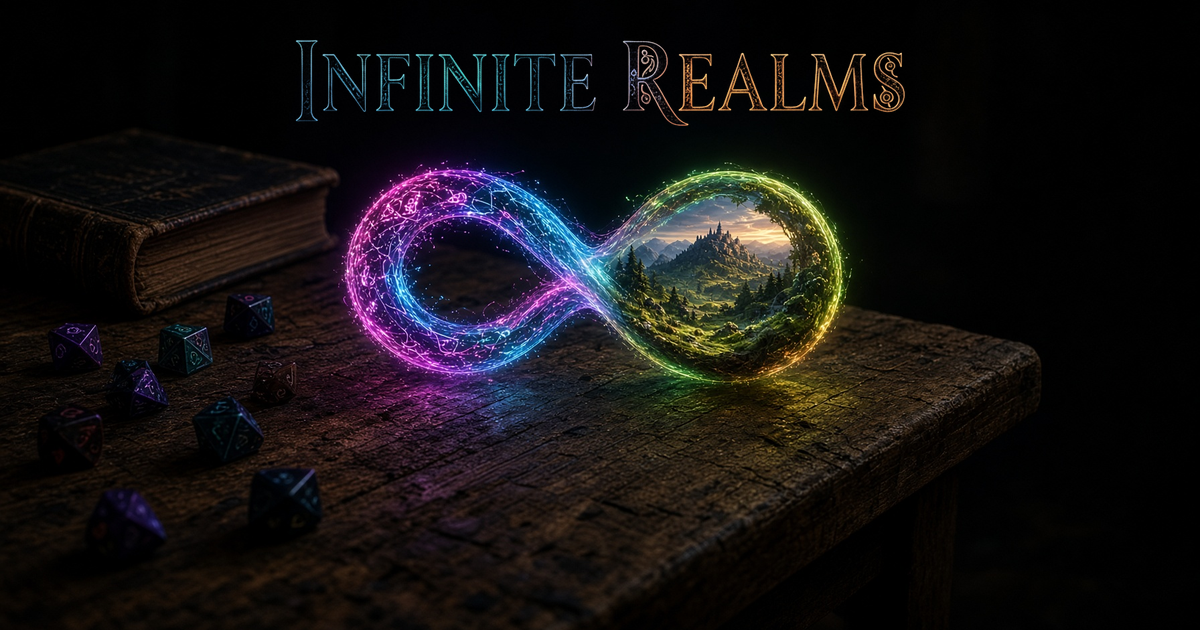
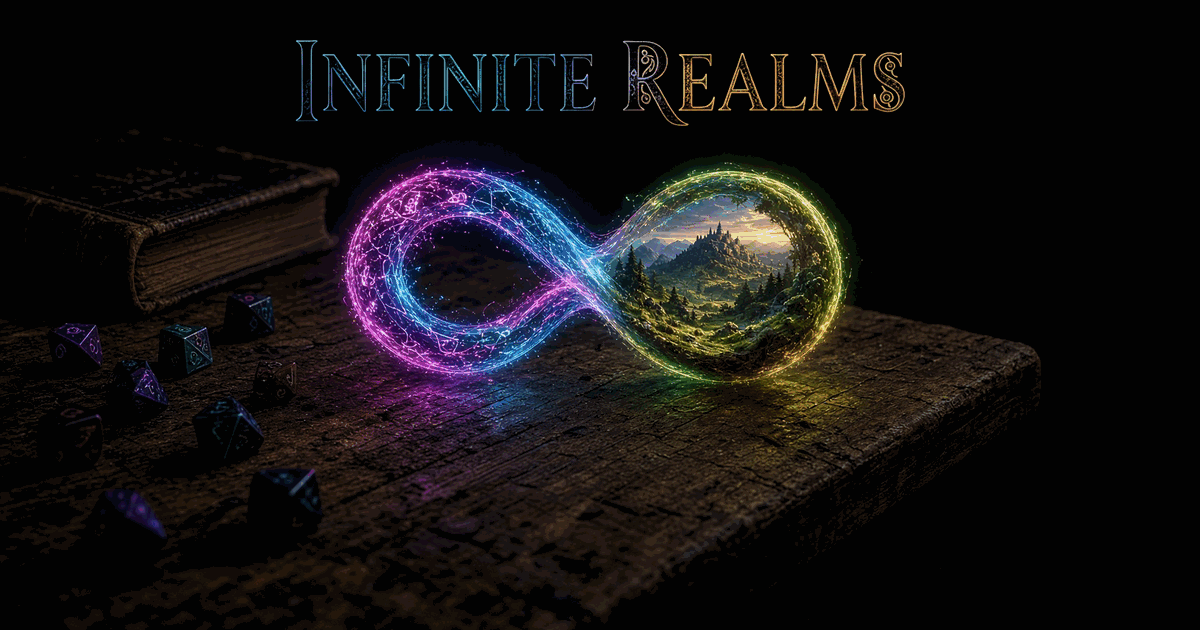
perf(client): keep three.js and app-only chunks off the landing page (#226)
The landing page preloaded about 2.4 MB of JS before first paint, including
three.js. Two causes, both in vite.config.ts:

- Vite's preload helper was folded into the three chunk, because its
  importers overlapped with three's. The static entry therefore imported
  three.js even though no static module uses it. The helper now has its own
  chunk.
- Every node_modules package went into one `vendor` chunk, so the entry
  preloaded packages only lazy routes use (mathjs, cannon-es, date-fns, ...).
  Now only packages the entry reaches through static imports go into the
  preloaded `vendor` and `radix-ui` chunks. Everything else goes to the route
  chunk that imports it.

Landing JS before first paint (entry + modulepreload list, same build env):
  before: 6 files, 2385863 bytes raw, 683294 bytes gzip
  after:  6 files, 529847 bytes raw, 160831 bytes gzip

Total JS across all chunks is unchanged within 0.3% (the code moved into
route chunks).

og-image.png: re-encoded at 1200x630 as an 8-bit palette PNG, 888639 -> 174662
bytes. Same path, so the og:image URL is unchanged.

scripts/ci/check-landing-preload.mjs runs after the frontend build and fails
if the landing page preloads the three.js chunk or loads three.js code. Its
unit tests include a negative control.

Refs #226

diff --git a/ai-adventure-scribe-main/scripts/ci/check-landing-preload.test.ts b/ai-adventure-scribe-main/scripts/ci/check-landing-preload.test.ts
@@ -1,0 +1,99 @@
+import { mkdtempSync, mkdirSync, rmSync, writeFileSync } from 'node:fs';
+import os from 'node:os';
+import path from 'node:path';
+
+import { afterAll, describe, expect, it } from 'bun:test';
+
+import { checkLandingPreload, landingJsHrefs } from './check-landing-preload.mjs';
+
+const tempRoots: string[] = [];
+
+afterAll(() => {
+  for (const root of tempRoots) rmSync(root, { recursive: true, force: true });
+});
+
+/** A dist/ directory whose index.html preloads the given chunks: [href, body] pairs. */
+function makeDist(preloads: Array<[string, string]>, entryBody = 'export {}'): string {
+  const root = mkdtempSync(path.join(os.tmpdir(), 'landing-preload-'));
+  tempRoots.push(root);
+  mkdirSync(path.join(root, 'assets'));
+  const entry = '/assets/main-abc123.js';
+  const links = preloads.map(
+    ([href]) => `    <link rel="modulepreload" crossorigin href="${href}">`,
+  );
+  writeFileSync(
+    path.join(root, 'index.html'),
+    [
+      '<!DOCTYPE html>',
+      '<html><head>',
+      ...links,
+      `</head><body><script type="module" crossorigin src="${entry}"></script></body></html>`,
+    ].join('\n'),
+  );
+  writeFileSync(path.join(root, entry), entryBody);
+  for (const [href, body] of preloads) {
+    writeFileSync(path.join(root, href), body);
+  }
+  return root;
+}
+
+describe('checkLandingPreload', () => {
+  it('reads the entry script and every modulepreload href', () => {
+    const html = `<script type="module" crossorigin src="/assets/main.js"></script>
+      <link rel="stylesheet" href="/assets/main.css">
+      <link rel="modulepreload" crossorigin href="/assets/vendor.js">`;
+
+    expect(landingJsHrefs(html)).toEqual(['/assets/main.js', '/assets/vendor.js']);
+  });
+
+  it('passes when the landing page preloads no three.js chunk', () => {
+    const dist = makeDist([
+      ['/assets/react-111.js', 'export const react = 1;'],
+      ['/assets/vendor-222.js', 'export const vendor = 2;'],
+    ]);
+
+    const result = checkLandingPreload(dist);
+
+    expect(result.failures).toEqual([]);
+    expect(result.files.map((file) => file.href)).toEqual([
+      '/assets/main-abc123.js',
+      '/assets/react-111.js',
+      '/assets/vendor-222.js',
+    ]);
+    expect(result.rawBytes).toBeGreaterThan(0);
+    expect(result.gzipBytes).toBeGreaterThan(0);
+  });
+
+  it('fails when the landing page preloads the three.js chunk by name (negative control)', () => {
+    const dist = makeDist([
+      ['/assets/react-111.js', 'export const react = 1;'],
+      ['/assets/three-BR1SRXg-.js', 'export const scene = 3;'],
+    ]);
+
+    const result = checkLandingPreload(dist);
+
+    expect(result.failures).toEqual([
+      'landing page preloads the three.js chunk: /assets/three-BR1SRXg-.js',
+    ]);
+  });
+
+  it('fails when a preloaded chunk with another name contains three.js code', () => {
+    const dist = makeDist([['/assets/shell-333.js', 'class WebGLRenderer {}']]);
+
+    const result = checkLandingPreload(dist);
+
+    expect(result.failures).toEqual([
+      'landing page loads three.js code (WebGLRenderer) in: /assets/shell-333.js',
+    ]);
+  });
+
+  it('fails when the entry script itself contains three.js code', () => {
+    const dist = makeDist([], 'class WebGLRenderer {}');
+
+    const result = checkLandingPreload(dist);
+
+    expect(result.failures).toEqual([
+      'landing page loads three.js code (WebGLRenderer) in: /assets/main-abc123.js',
+    ]);
+  });
+});

diff --git a/ai-adventure-scribe-main/vite.config.ts b/ai-adventure-scribe-main/vite.config.ts
@@ -53,6 +53,43 @@ function injectBuildVersion(buildVersion: string): {
   };
 }
 
+type ChunkGraphApi = {
+  getModuleIds: () => Iterable<string>;
+  getModuleInfo: (id: string) => { importedIds: readonly string[]; isEntry: boolean } | null;
+};
+
+// One set per build: Rollup passes the same api object to every manualChunks call in a build.
+const entryReachableByBuild = new WeakMap<ChunkGraphApi, Set<string>>();
+
+/**
+ * Every module the entries reach through static imports only (#226). The landing page preloads
+ * the chunks its entry imports, so a package goes into a preloaded chunk only if this set has it;
+ * everything else stays in the route chunk that lazy-imports it.
+ */
+function isEntryReachable(id: string, api: ChunkGraphApi): boolean {
+  let reached = entryReachableByBuild.get(api);
+  if (!reached) {
+    reached = new Set<string>();
+    const queue: string[] = [];
+    for (const moduleId of api.getModuleIds()) {
+      if (api.getModuleInfo(moduleId)?.isEntry) {
+        reached.add(moduleId);
+        queue.push(moduleId);
+      }
+    }
+    for (let next = queue.pop(); next !== undefined; next = queue.pop()) {
+      for (const dep of api.getModuleInfo(next)?.importedIds ?? []) {
+        if (!reached.has(dep)) {
+          reached.add(dep);
+          queue.push(dep);
+        }
+      }
+    }
+    entryReachableByBuild.set(api, reached);
+  }
+  return reached.has(id);
+}
+
 // https://vitejs.dev/config/
 export default defineConfig(({ mode }) => ({
   define: {
@@ -110,7 +147,13 @@ export default defineConfig(({ mode }) => ({
         'landing-client': path.resolve(__dirname, 'src/landing-client.ts'),
       },
       output: {
-        manualChunks(id) {
+        manualChunks(id, api) {
+          // Vite's preload helper is imported by every lazy route. Without its own chunk,
+          // Rollup folds it into the three chunk, so the landing entry statically imports
+          // three.js and preloads it (#226).
+          if (id.includes('vite/preload-helper')) {
+            return 'preload-helper';
+          }
           if (id.includes('node_modules')) {
             // React core — isolated chunk so vendor and react-query both
             // import React from here, eliminating cross-chunk init cycles
@@ -152,9 +195,9 @@ export default defineConfig(({ mode }) => ({
               return 'supabase';
             }
 
-            // Radix UI primitives - large set of components
+            // Radix UI primitives - preloaded by the landing page, so only the entry-reachable part
             if (id.includes('@radix-ui')) {
-              return 'radix-ui';
+              return isEntryReachable(id, api) ? 'radix-ui' : undefined;
             }
 
             // Data fetching layer
@@ -162,7 +205,10 @@ export default defineConfig(({ mode }) => ({
               return 'react-query';
             }
 
-            return 'vendor';
+            // Shared vendor code is preloaded by the landing page, so only what the entry imports
+            // goes here. Packages only lazy routes import (mathjs, cannon-es, date-fns, ...) go
+            // to those routes' chunks (#226).
+            return isEntryReachable(id, api) ? 'vendor' : undefined;
           }
           return undefined;
         },
